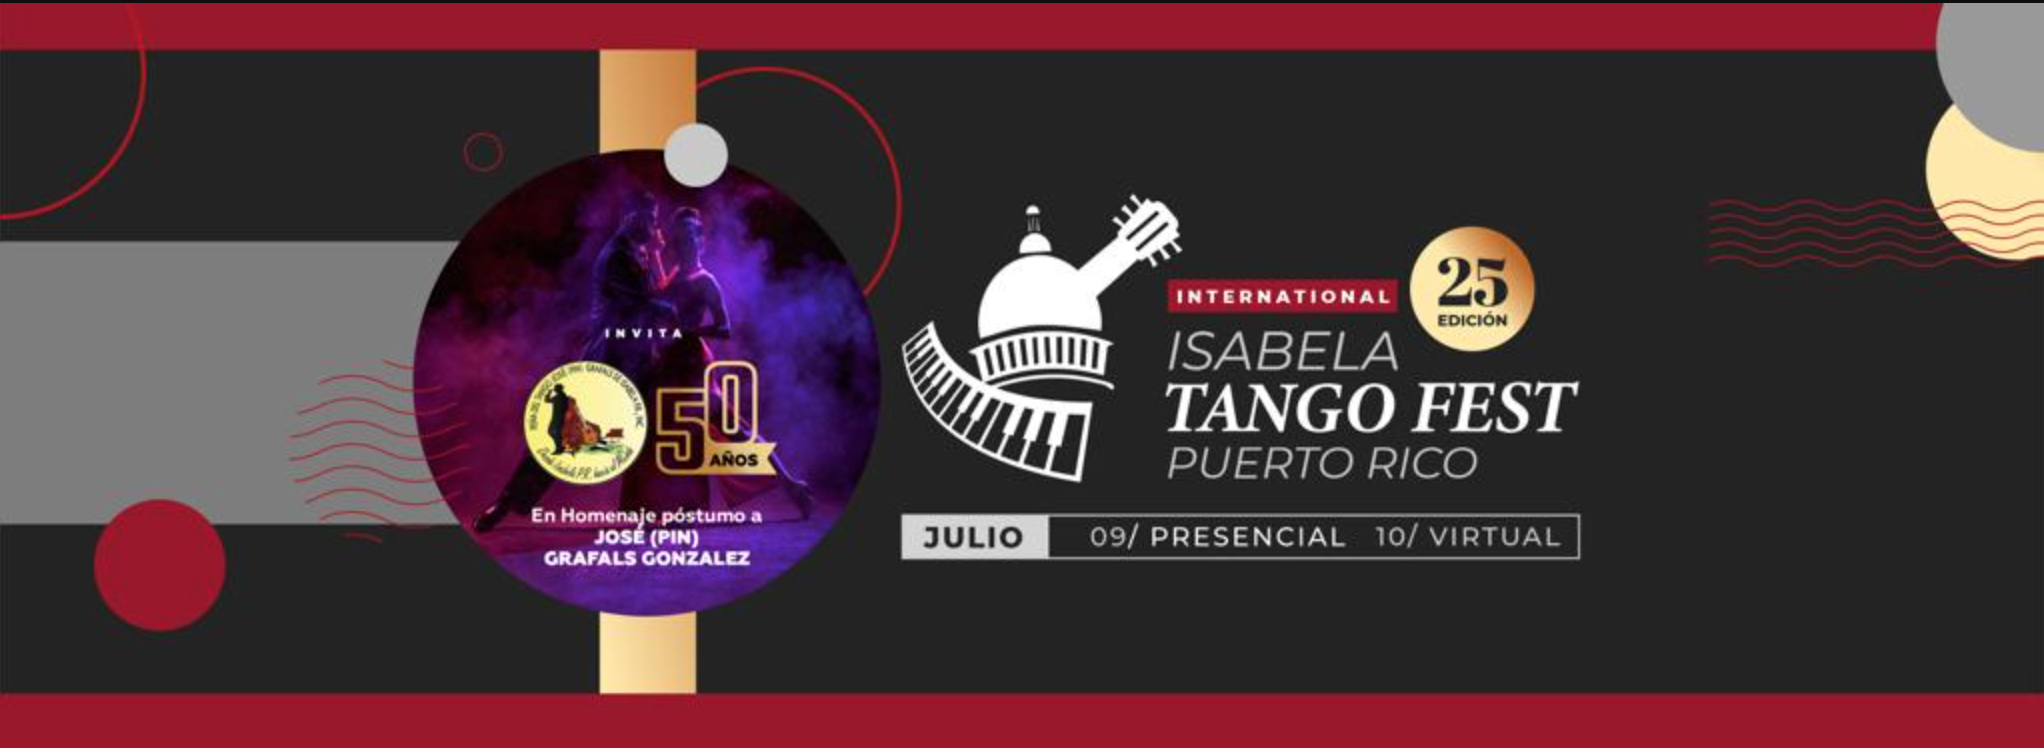
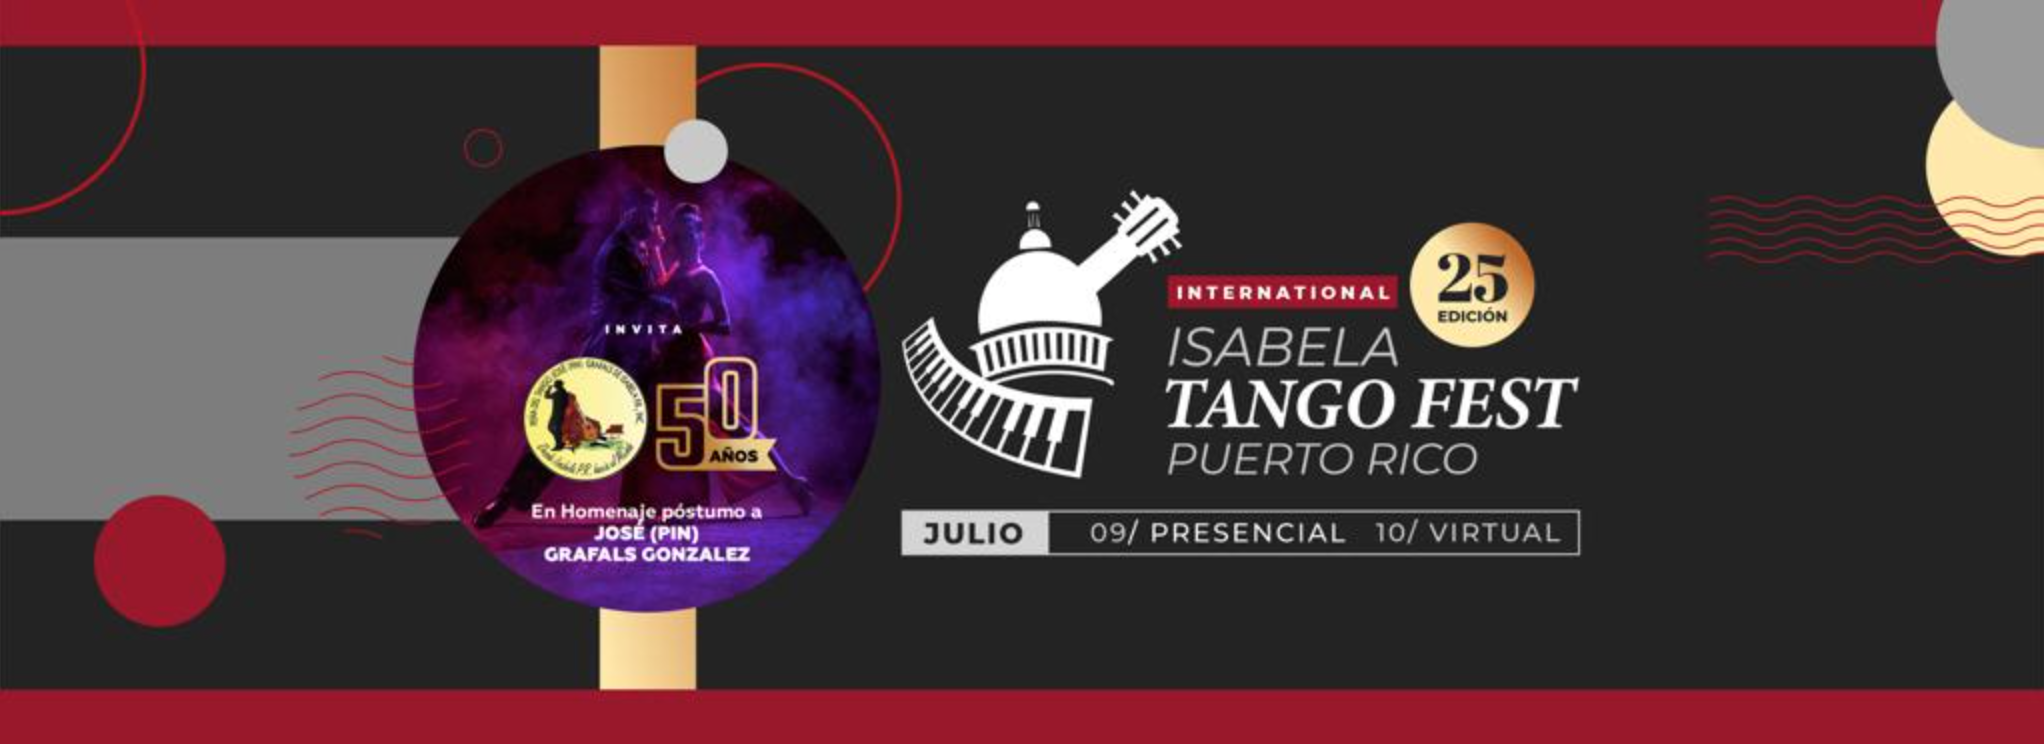
CSS cellphone index done

diff --git a/CSS/styles.css b/CSS/styles.css
@@ -94,17 +94,6 @@ body {
   justify-content: center;
 }
 
-.size-showcase {
-  position: absolute;
-  background-image: url(../PNG/Banner\ Oficial/Banner-Oficial.jpeg);
-  background-position: center center;
-  background-size: contain;
-  background-repeat: no-repeat;
-  display: flex;
-  width: 100%;
-  height: 100%;
-}
-
 #main-header {
   margin-top: 15px;
   width: 100%;
@@ -146,14 +135,12 @@ body {
 }
 
 #showcase {
+  margin-top: 15px;
+}
+
+.showcase__banner-image{
   width: 100%;
-  height: 475px;
-  margin-top: 8px;
-  display: flex;
-  flex-wrap: wrap;
-  justify-content: center;
-  align-items: center;
-  border: 1px green solid;
+  height: auto;
 }
 
 #main {
@@ -194,6 +181,24 @@ body {
 
 /* Small Phones, tablets, large smartphones */
 
-@media (max-width 728px){
+@media (max-width: 728px){
+  .row {
+    width: 100%;
+    max-width: 500px;
+    min-width: 430px;
+  }
 
+  .box-sponcer {
+    width: 25%;
+    height: 100px;
+    padding: 8px;
+    margin: 5px;
+  }
+  
+  .box-wrapper {
+    display: flex;
+    flex-wrap: wrap;
+    justify-content: space-around;
+    justify-content: center;
+  }
 }

diff --git a/index.html b/index.html
@@ -25,8 +25,8 @@
     </div>
 
     <section id="showcase">
-      <div class="size-showcase">
-        <img src="#" alt="">
+      <div>
+        <img class="showcase__banner-image" src="./PNG/Banner Oficial/Banner-Oficial.jpeg" alt="">
       </div>
     </section>
 
